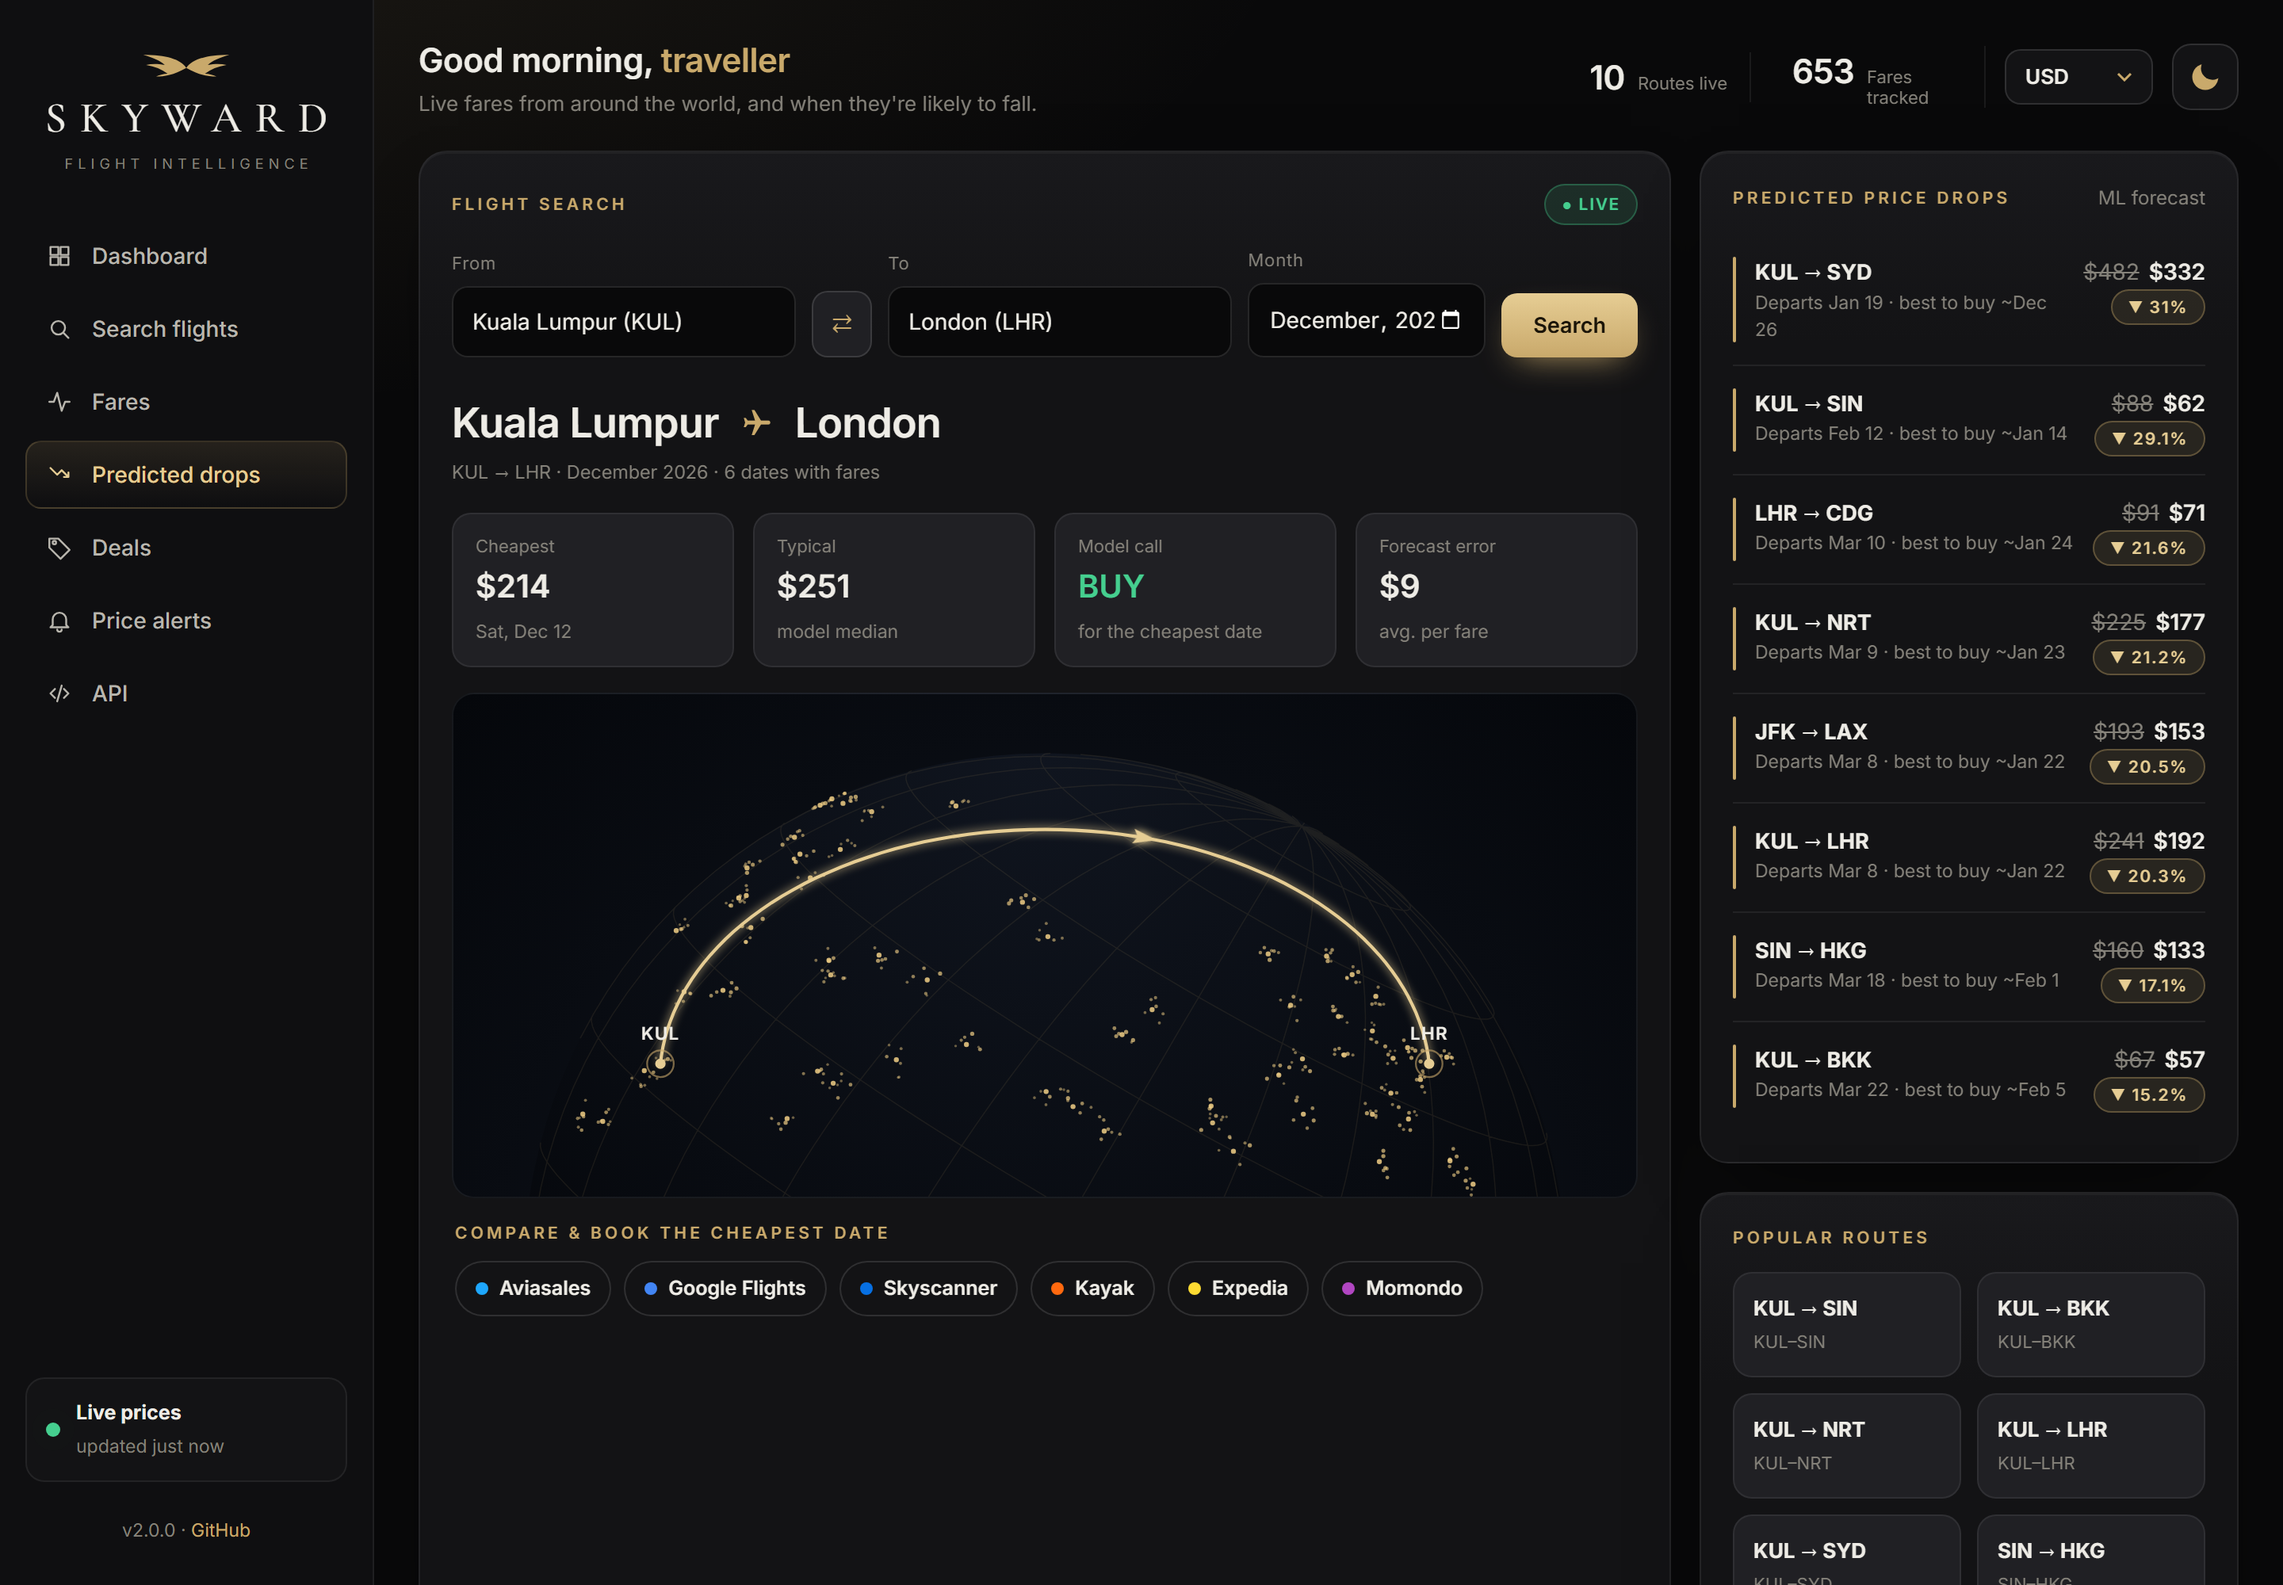
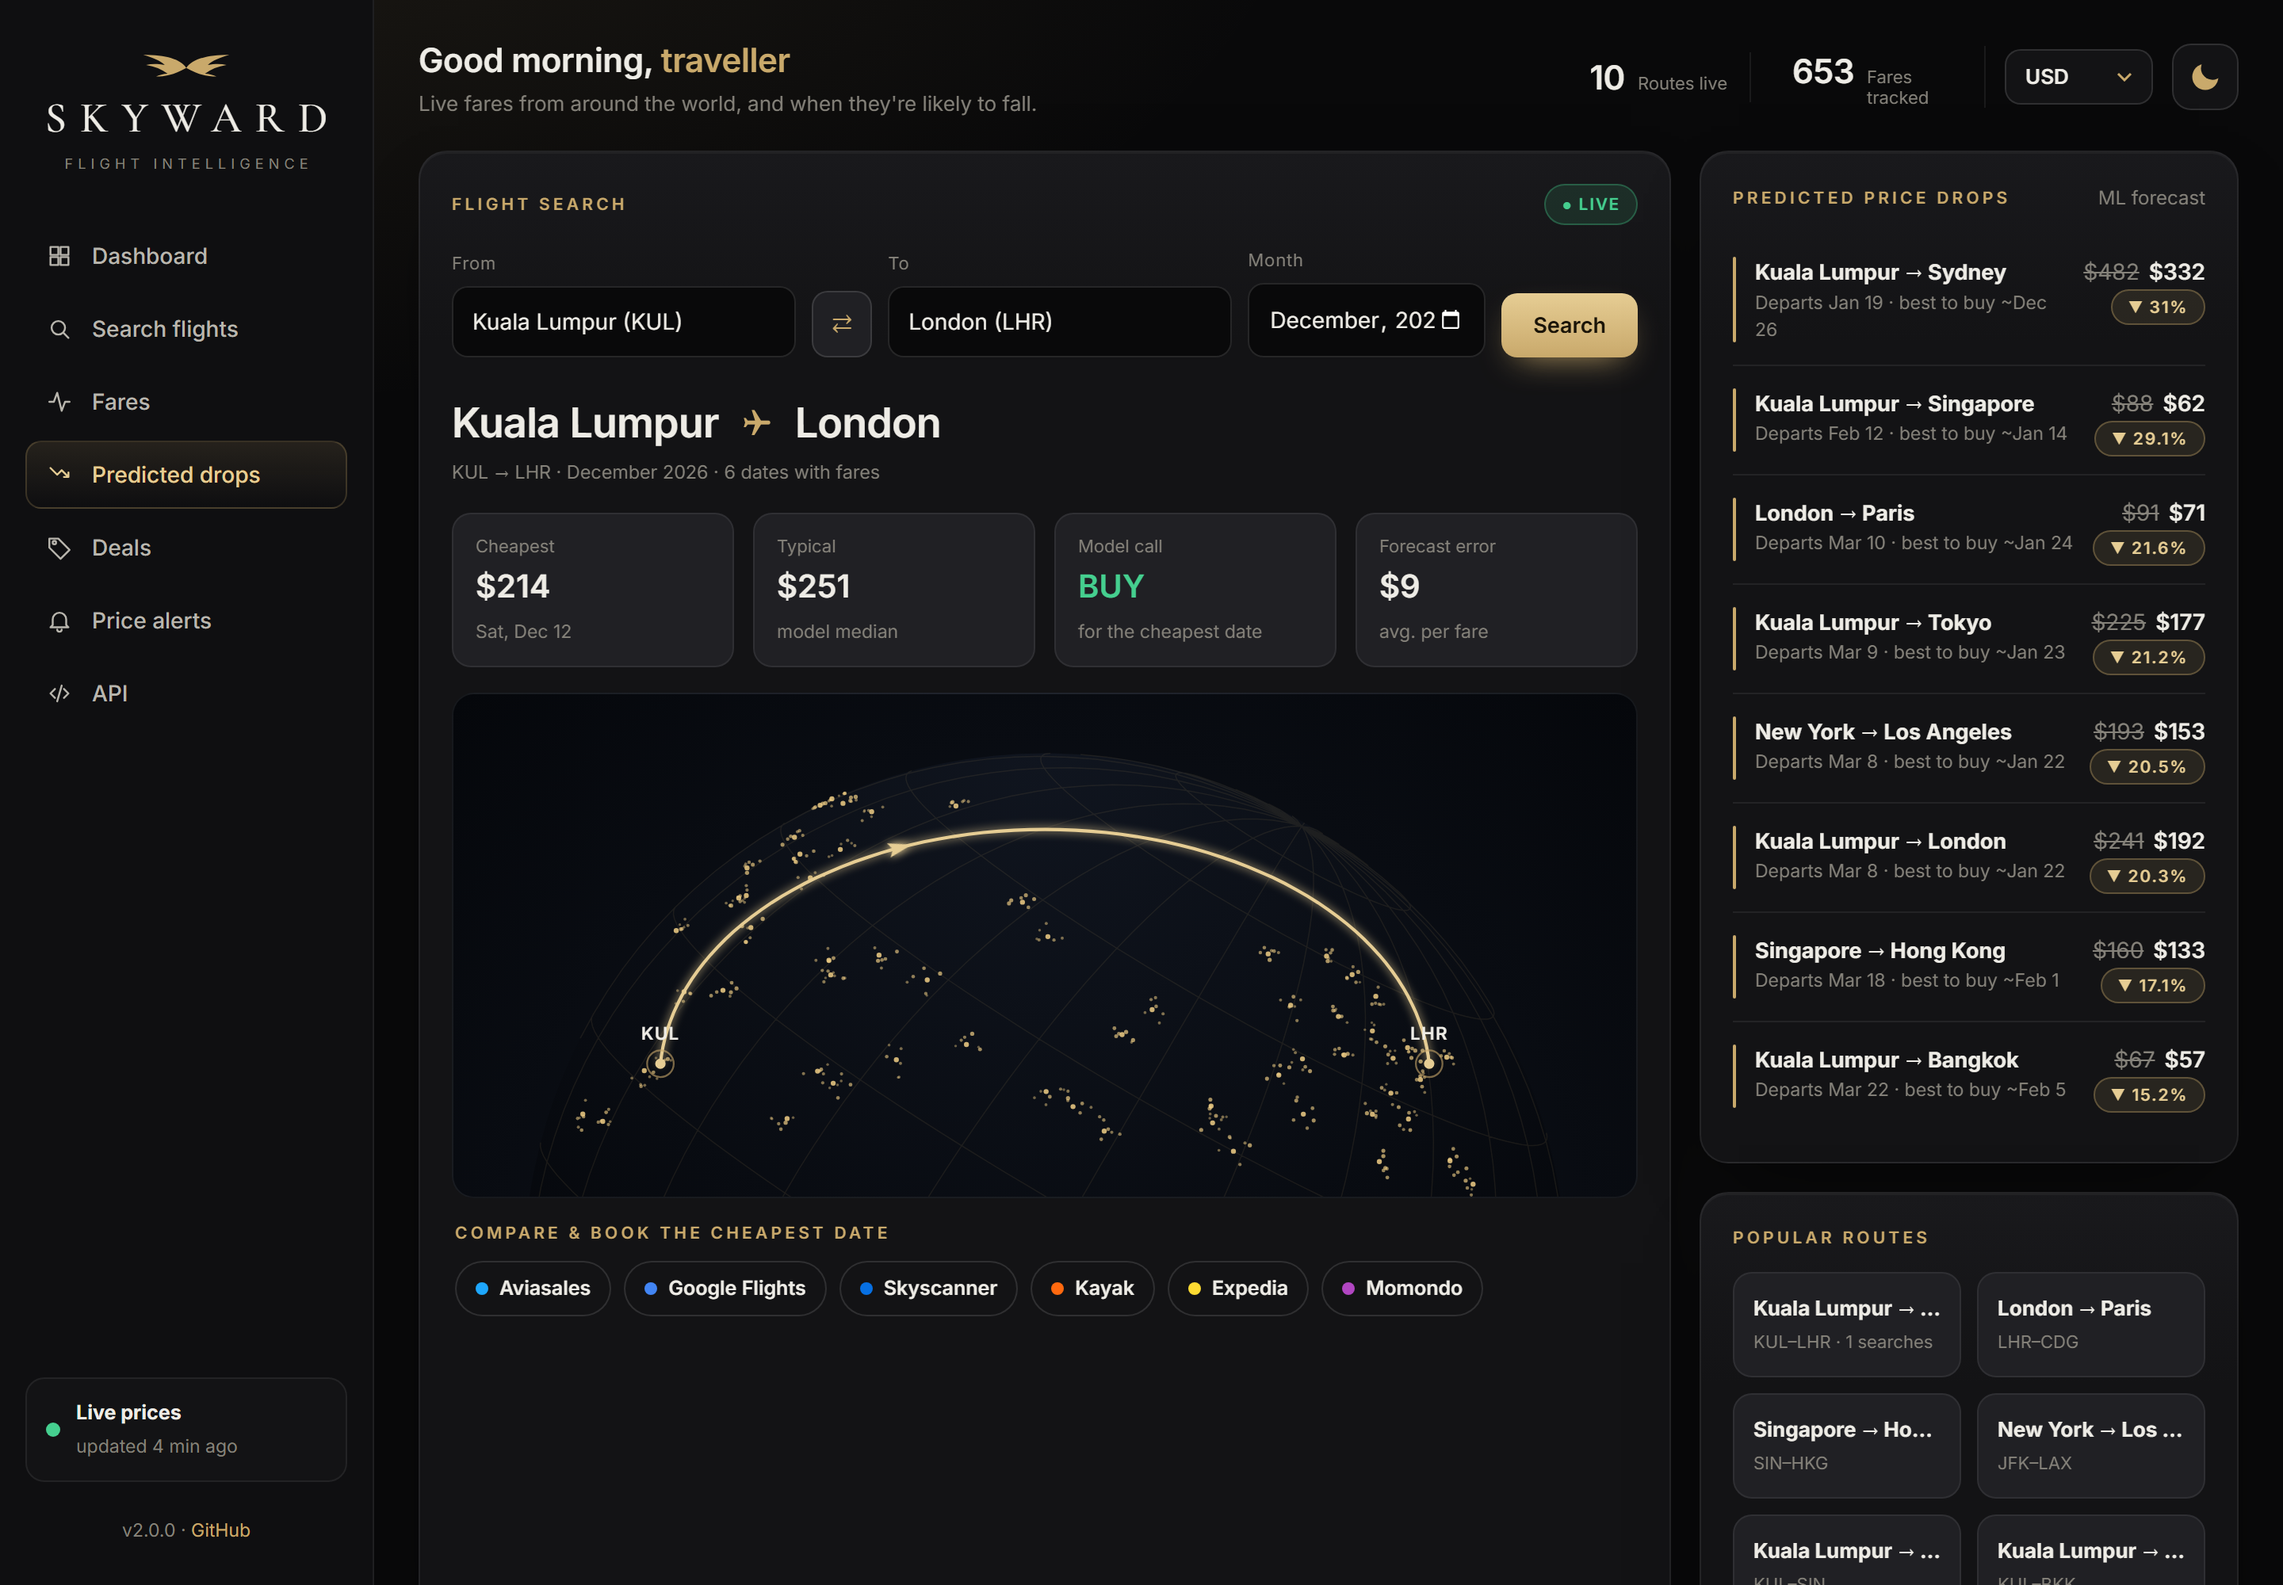
README screenshots for night and day mode; wrap long route names in tiles

diff --git a/frontend/index.html b/frontend/index.html
@@ -20,7 +20,7 @@
 <link rel="preconnect" href="https://fonts.gstatic.com" crossorigin>
 <link href="https://fonts.googleapis.com/css2?family=Cormorant+Garamond:wght@400;500;600&family=Inter:wght@400;500;600;700&display=swap" rel="stylesheet">
 <script src="https://cdnjs.cloudflare.com/ajax/libs/Chart.js/4.4.1/chart.umd.min.js" defer></script>
-<link rel="stylesheet" href="/static/styles.css?v=2.0.0">
+<link rel="stylesheet" href="/static/styles.css?v=2.0.0b">
 </head>
 <body>
 <div class="app">
@@ -194,6 +194,6 @@
   </div>
 </div>
 <div class="toast" id="toast" role="status" aria-live="polite"></div>
-<script src="/static/app.js?v=2.0.0" defer></script>
+<script src="/static/app.js?v=2.0.0b" defer></script>
 </body>
 </html>

diff --git a/frontend/styles.css b/frontend/styles.css
@@ -200,7 +200,7 @@ input, select { font: inherit; }
 .tiles { display: grid; grid-template-columns: 1fr 1fr; gap: 10px; }
 .tile { text-align: left; padding: 12px; border-radius: 12px; border: 1px solid var(--line); background: var(--card-3); color: var(--text); cursor: pointer; transition: .2s; font: inherit; min-width: 0; }
 .tile:hover { border-color: rgba(201,169,107,.45); transform: translateY(-1px); }
-.tile b { display: block; font-size: 13px; white-space: nowrap; overflow: hidden; text-overflow: ellipsis; }
+.tile b { display: block; font-size: 13px; line-height: 1.3; margin-bottom: 2px; }
 .tile small { color: var(--muted); font-size: 11px; }
 
 /* ===== table ===== */
